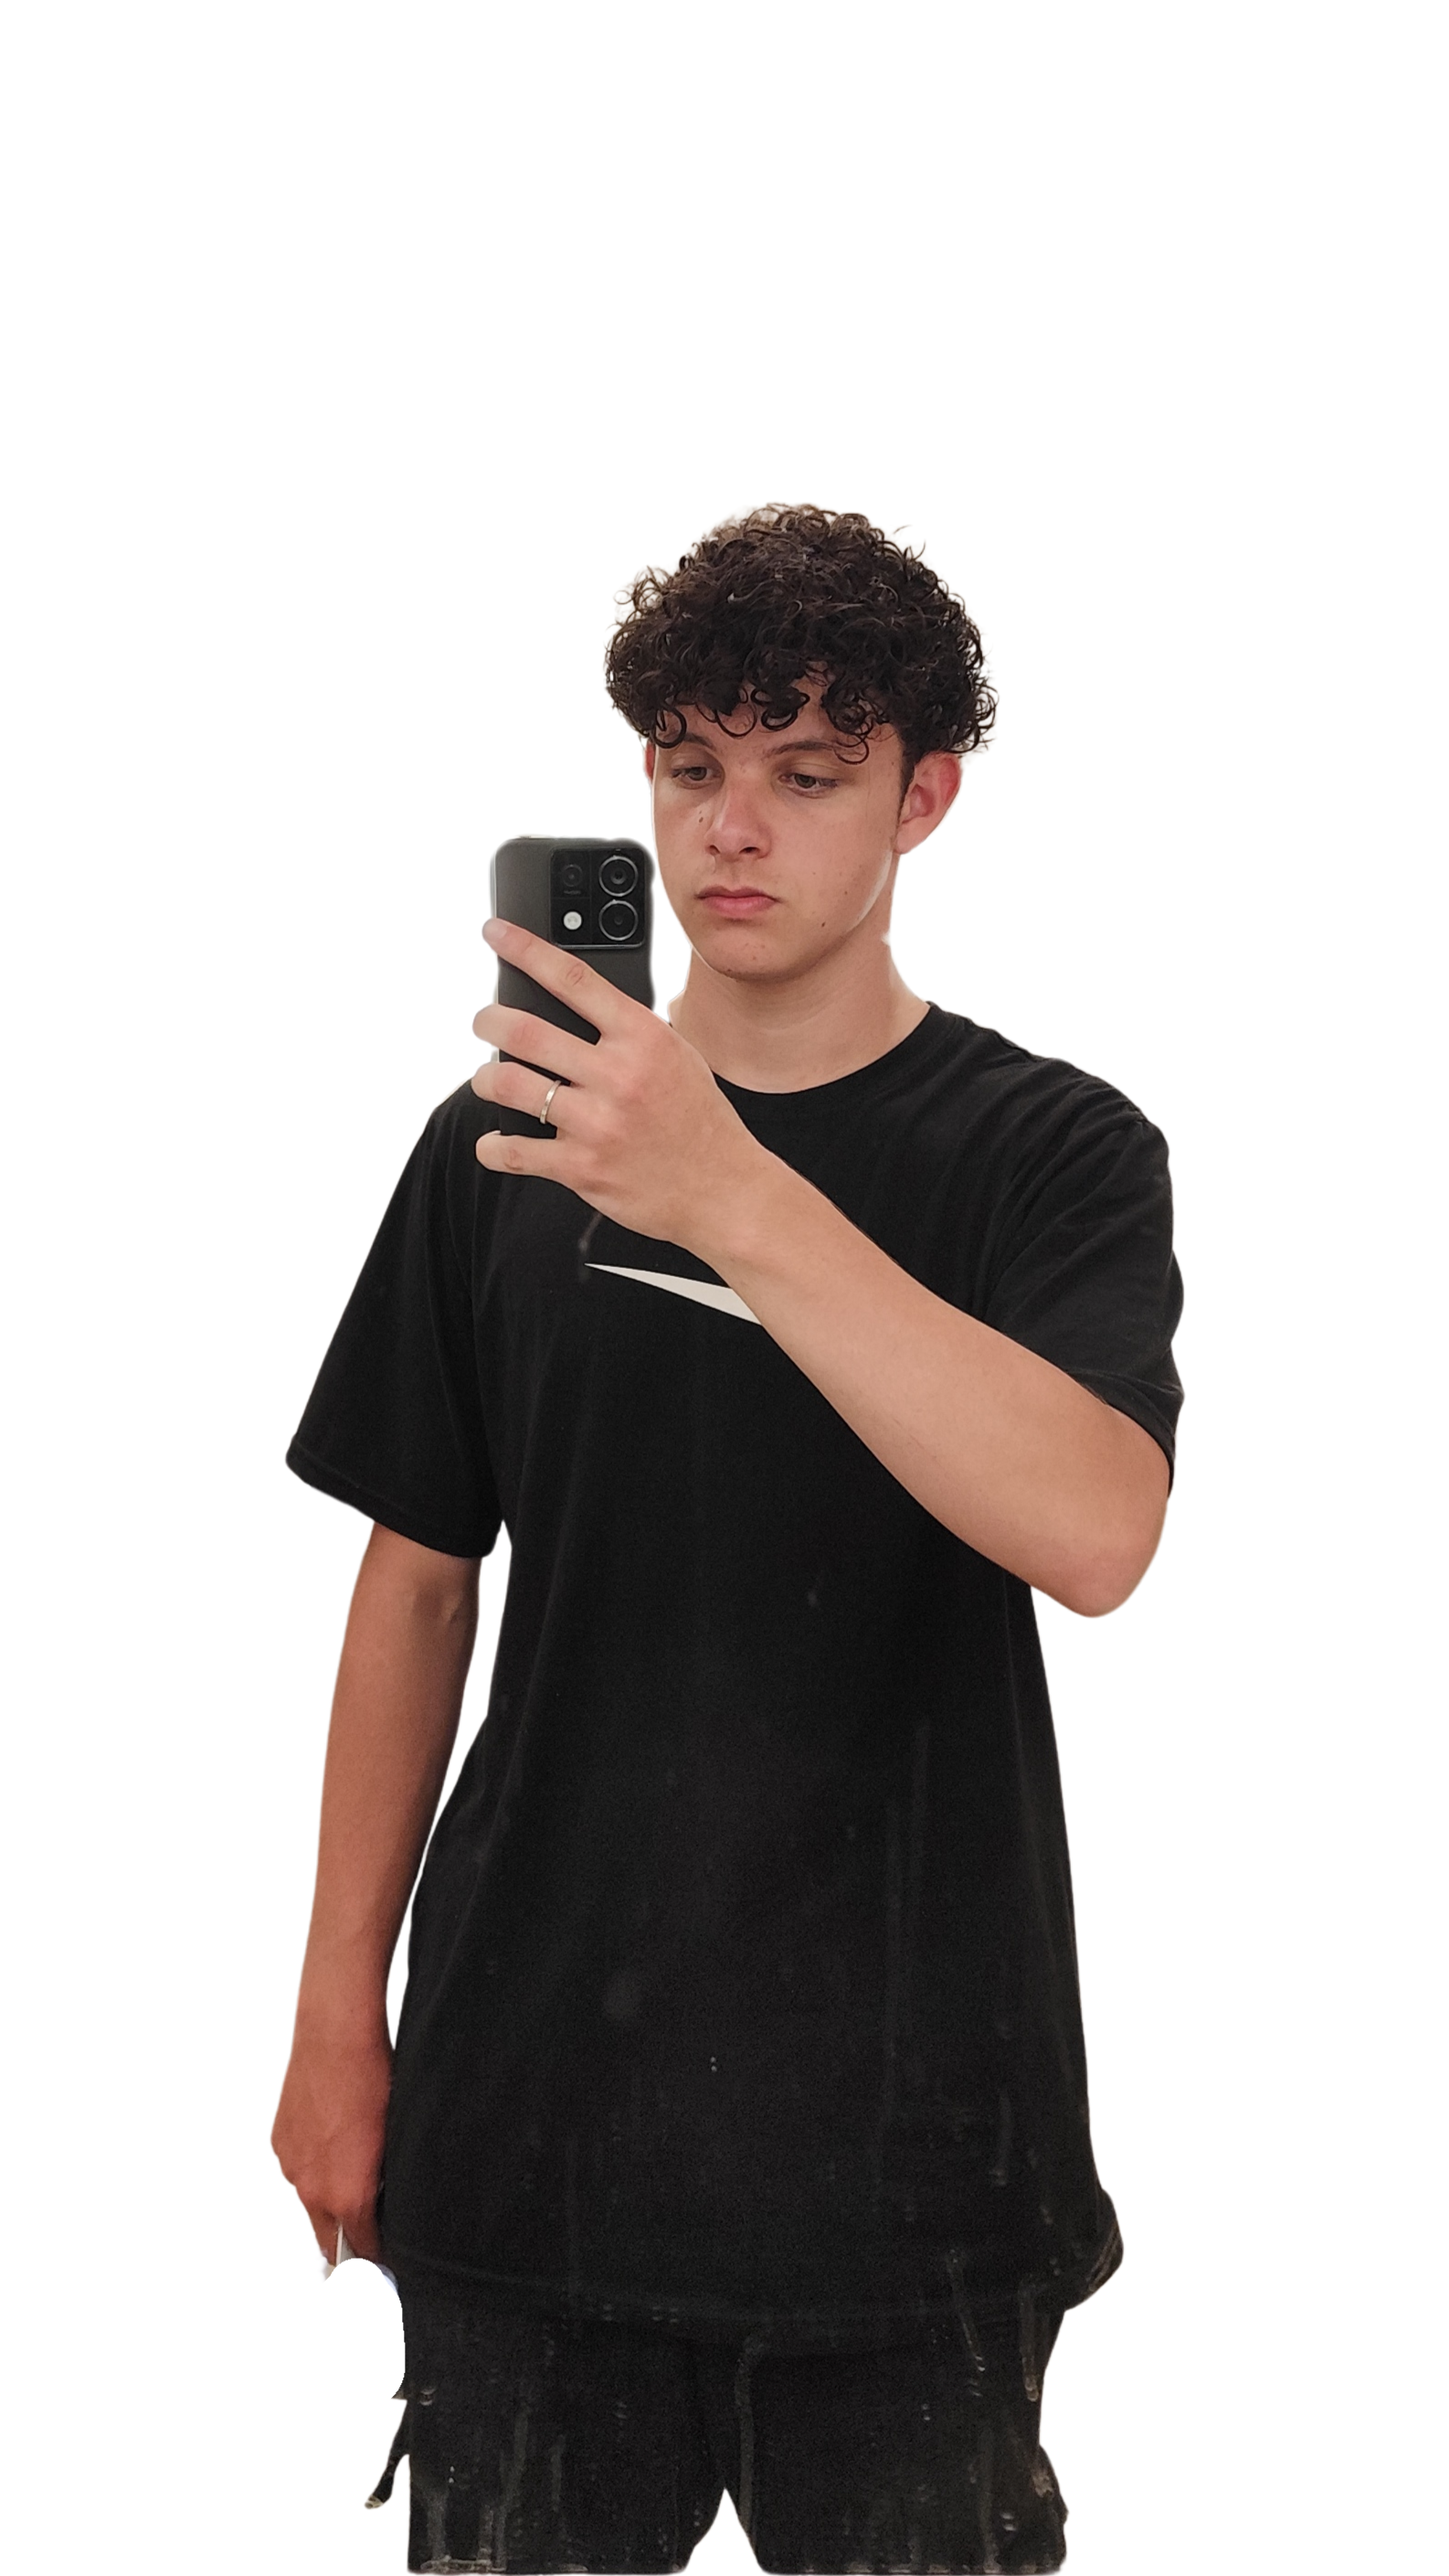
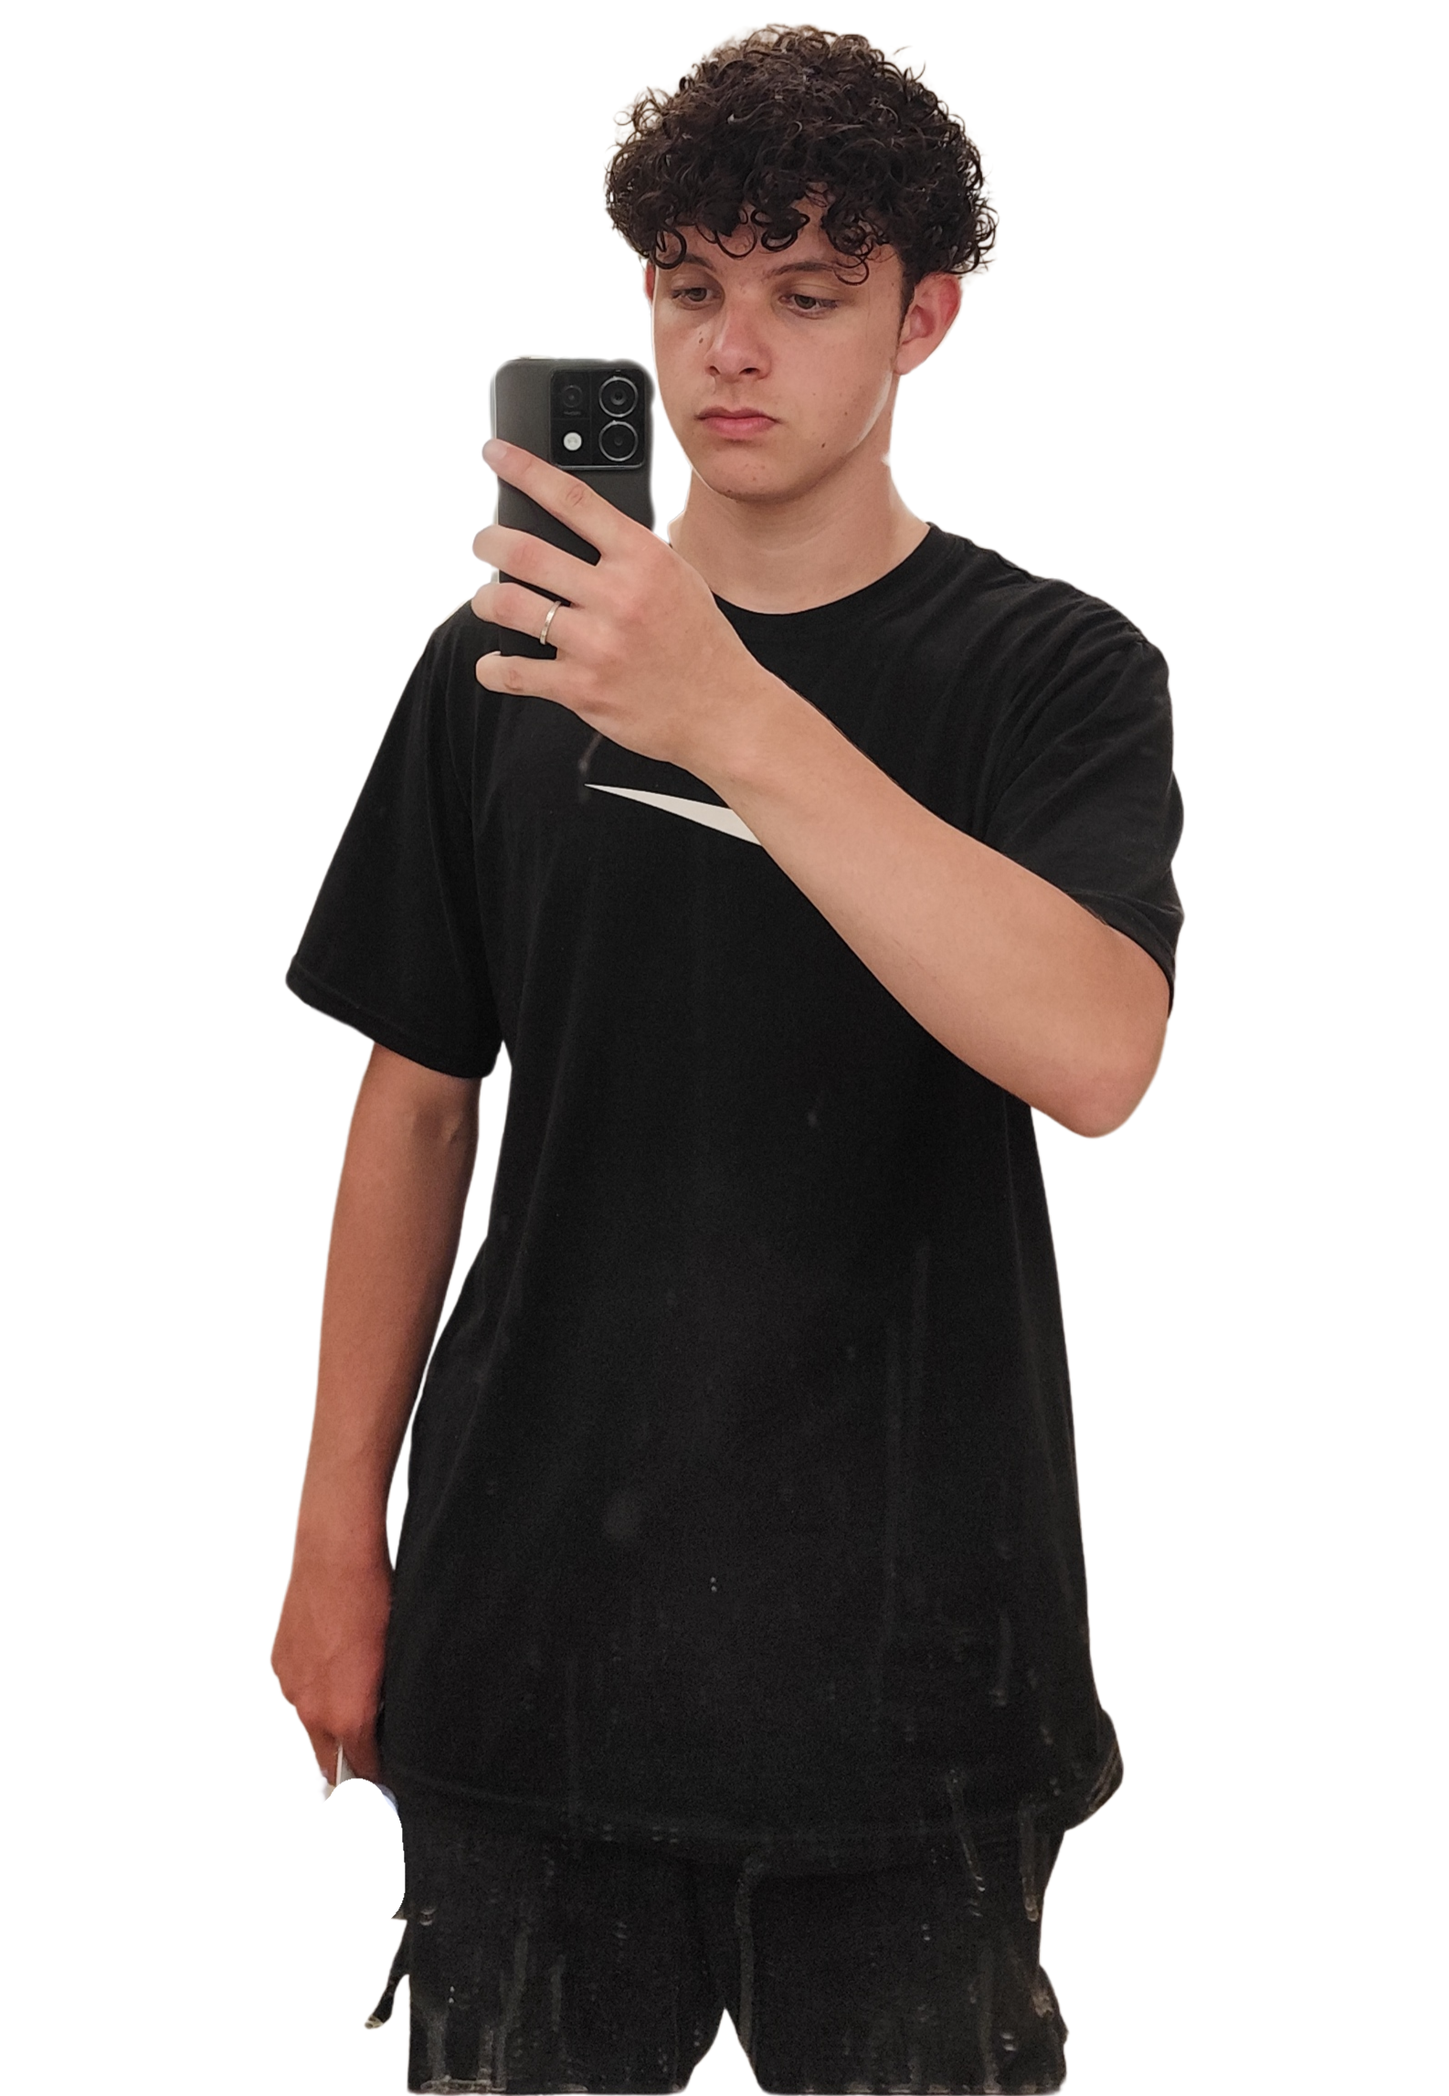
Adiciona animações e melhorias na seção Hero do portfólio

diff --git a/src/components/Hero.tsx b/src/components/Hero.tsx
@@ -1,4 +1,6 @@
+"use client";
 import Image from "next/image";
+import { motion } from "framer-motion";
 
 export default function Hero() {
   return (
@@ -24,30 +26,40 @@ export default function Hero() {
         </div>
       </div>
 
-      {/* Main hero grid */}
-      <div className="mx-auto grid w-full max-w-6xl grid-cols-1 items-center gap-10 px-6 md:grid-cols-[1fr_1fr] md:pt-24">
-        {/* Photo */}
-        <div className="order-2 flex justify-center md:order-1">
-          <div className="relative aspect-3/4 w-md max-w-full overflow-hidden rounded-2xl bg-black/10 shadow-2xl ring-1 ring-black/20">
-            <Image src="/me.png" alt="Foto" fill priority sizes="(min-width: 768px) 28rem, 80vw" className="object-cover object-top" />
-          </div>
-        </div>
-
-        {/* Text + arrow */}
-        <div className="order-1 md:order-2">
-          <div className="mb-6 text-right text-white">
-            <div className="mb-2 text-xl opacity-80">↘</div>
-            <div className="text-2xl">Freelance</div>
-            <div className="text-2xl">Designer & Developer</div>
+      {/* Main hero - centralizado */}
+      <div className="absolute inset-0 -top-32 flex items-start justify-center pt-8">
+        <div className="relative w-full max-w-5xl">
+          <div className="relative mx-auto" style={{ height: "110vh" }}>
+            <Image
+              src="/me.png"
+              alt="Foto"
+              fill
+              priority
+              sizes="100vw"
+              className="object-contain"
+              style={{ filter: "drop-shadow(0 18px 36px rgba(0,0,0,0.35))" }}
+            />
           </div>
         </div>
       </div>
 
-      {/* Big name at bottom */}
-      <div className="pointer-events-none select-none">
-        <h1 className="mx-auto max-w-7xl px-6 pb-2 text-[15vw] leading-none tracking-tight text-white/90 md:text-[9rem]">
-          Otavio Emanoel
-        </h1>
+      {/* Text + arrow - posicionado absolutamente no canto superior direito */}
+      <div className="absolute right-12 top-32 text-right text-white md:right-24">
+        <div className="mb-2 text-xl opacity-80">↘</div>
+        <div className="text-2xl">Freelance</div>
+        <div className="text-2xl">Designer & Developer</div>
+      </div>
+
+      {/* Big name marquee at bottom */}
+      <div className="pointer-events-none absolute bottom-0 left-0 right-0 select-none overflow-hidden">
+        <motion.div
+          className="whitespace-nowrap"
+          initial={{ x: 0 }}
+          animate={{ x: ["0%", "-50%"] }}
+          transition={{ duration: 14, repeat: Infinity, ease: "linear" }}
+        >
+          <span className="px-8 text-[22vw] leading-none tracking-tight text-white/90">Otavio Emanoel</span>
+        </motion.div>
       </div>
     </section>
   );
